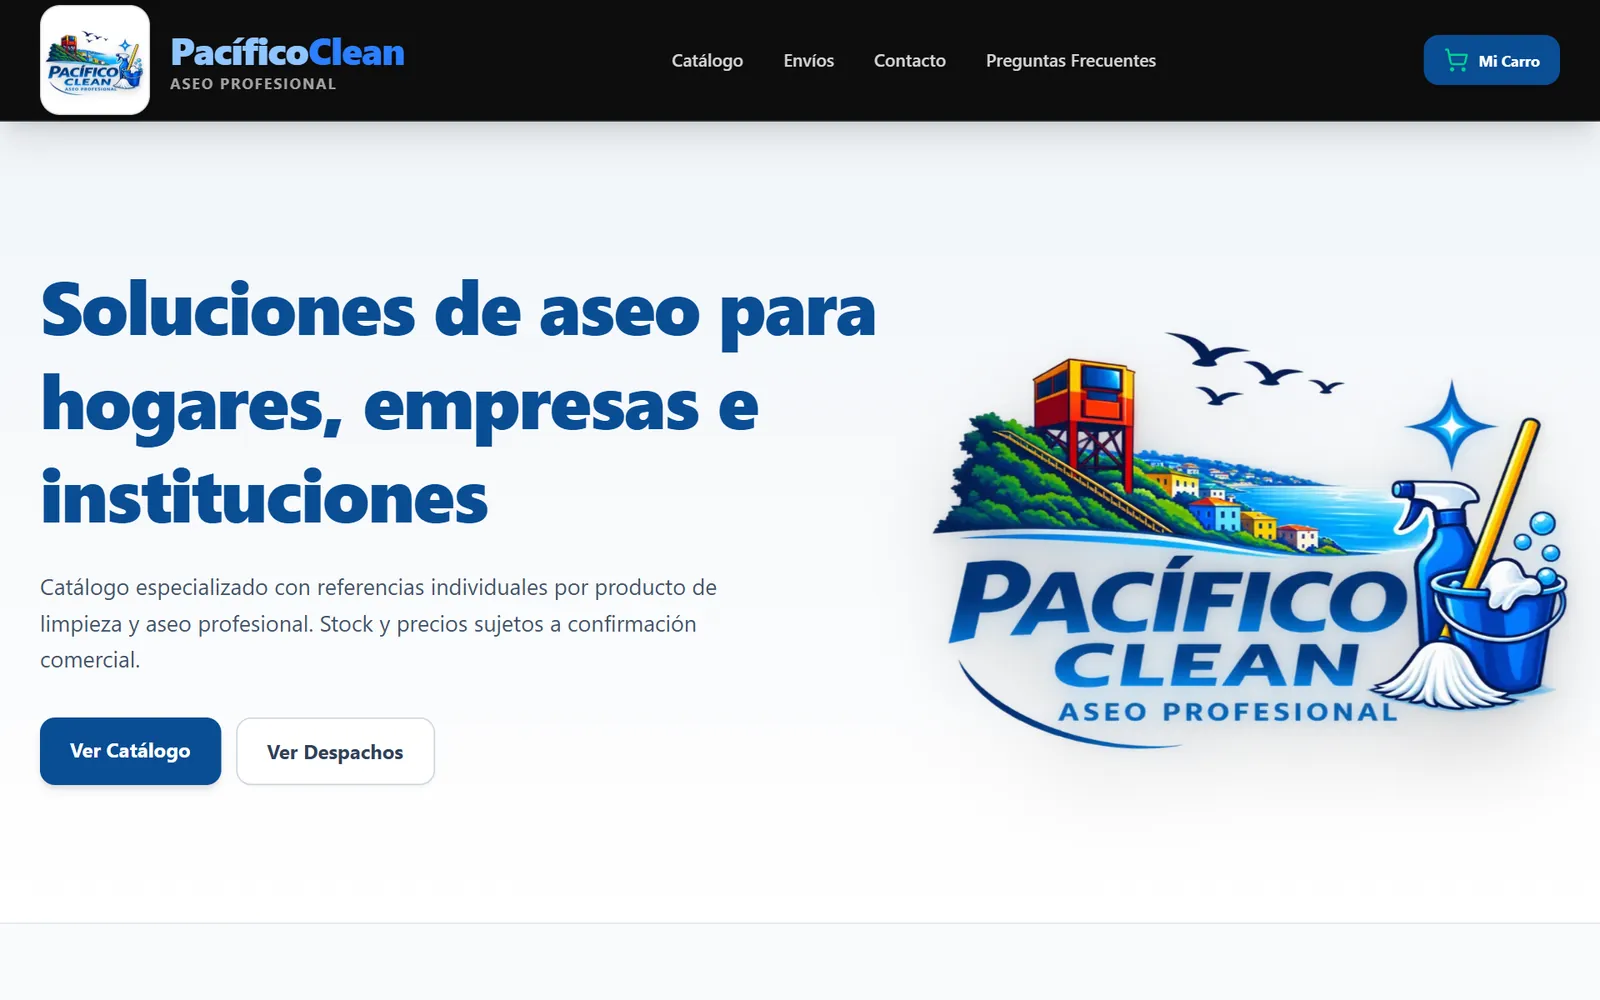
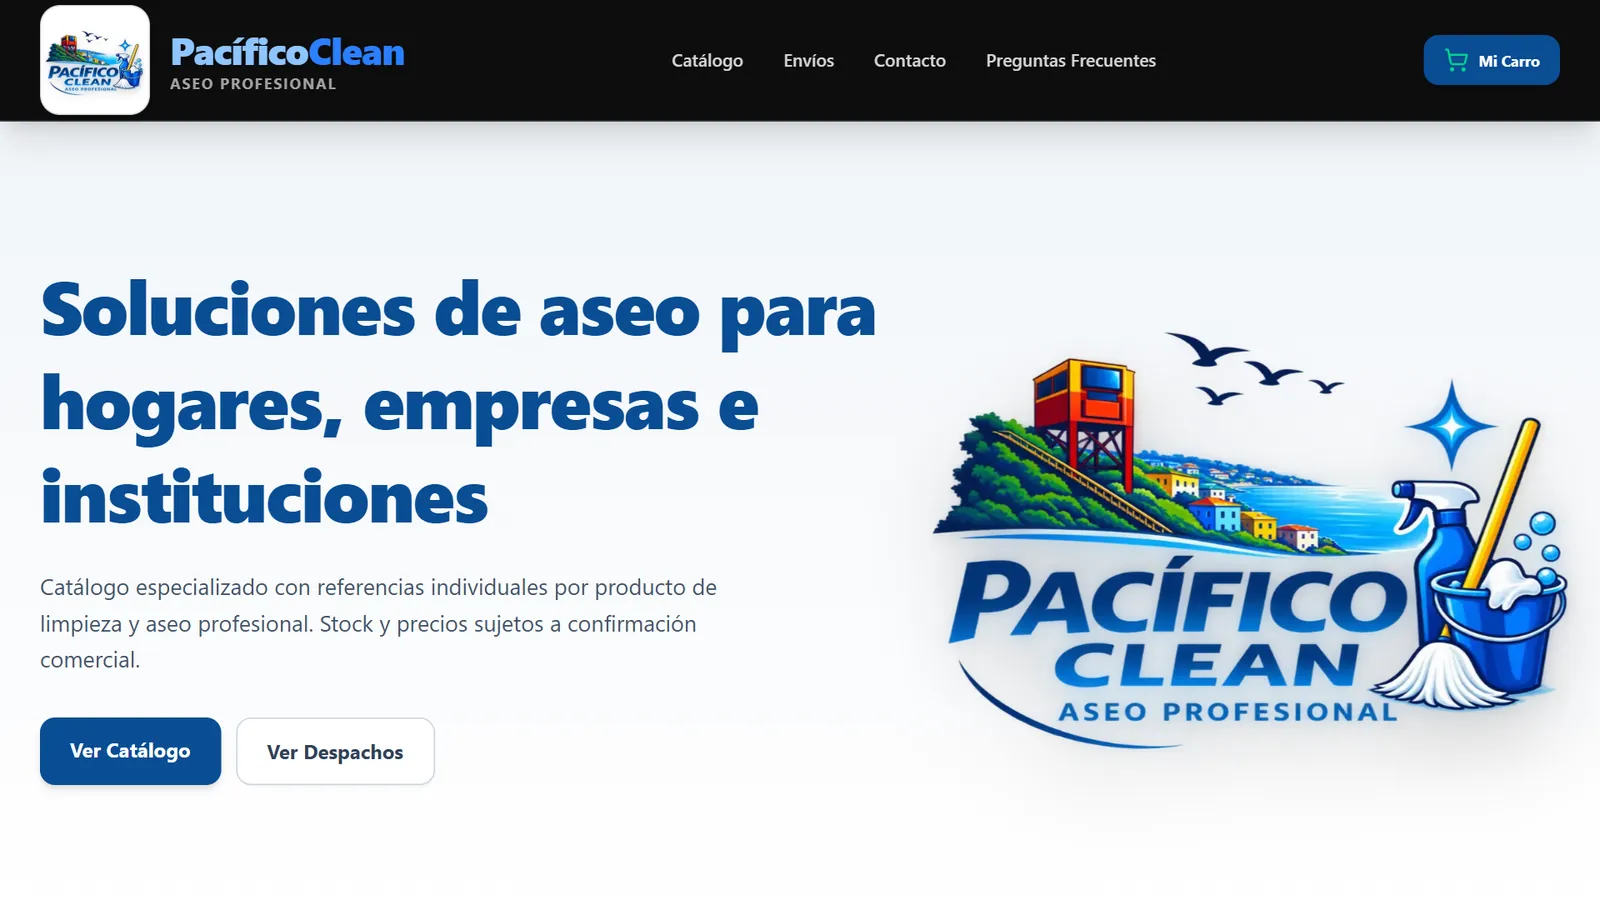
fix(hero): correcciones de la autocrítica
- Recorta la franja blanca vacía al pie de la captura de PacificoClean
  (ahora 1600×900, 77 KB).
- Título hasta 18ch: queda en 4 líneas en escritorio en vez de 5.
- Marco de navegador sin los tres círculos tipo "semáforo", el cliché de
  plantilla; queda solo la barra con la URL.

diff --git a/src/components/Hero.tsx b/src/components/Hero.tsx
@@ -12,7 +12,7 @@ export default function Hero() {
       <HeroCable />
       <div className="relative mx-auto grid max-w-7xl items-center gap-14 px-4 sm:px-6 lg:grid-cols-[minmax(0,1fr)_minmax(0,1.1fr)] lg:gap-16 lg:px-8">
         <div>
-          <h1 className="max-w-[16ch] text-balance font-display text-[2.375rem] font-extrabold leading-[1.06] tracking-[-0.02em] sm:text-5xl lg:text-[3.5rem] xl:text-[3.875rem]">
+          <h1 className="max-w-[18ch] text-balance font-display text-[2.375rem] font-extrabold leading-[1.06] tracking-[-0.02em] sm:text-5xl lg:text-[3.5rem] xl:text-[3.875rem]">
             Hago sitios web y sistemas a medida para negocios de todo Chile.
           </h1>
           <p className="mt-6 max-w-[34rem] text-lg leading-relaxed text-tinta/80 sm:text-xl">
@@ -41,13 +41,8 @@ export default function Hero() {
 
         <figure data-cable-start className="relative">
           <div className="overflow-hidden rounded border-2 border-tinta bg-papel">
-            <div className="flex items-center gap-3 border-b-2 border-tinta px-3 py-2">
-              <span className="flex gap-1.5" aria-hidden="true">
-                <span className="h-2.5 w-2.5 rounded-full border-[1.5px] border-tinta/40" />
-                <span className="h-2.5 w-2.5 rounded-full border-[1.5px] border-tinta/40" />
-                <span className="h-2.5 w-2.5 rounded-full border-[1.5px] border-tinta/40" />
-              </span>
-              <span className="min-w-0 flex-1 truncate rounded bg-niebla px-3 py-1 text-sm text-tinta/75">
+            <div className="border-b-2 border-tinta px-3 py-2">
+              <span className="block truncate rounded bg-niebla px-3 py-1 text-sm text-tinta/75">
                 pacificoclean.vercel.app
               </span>
             </div>
